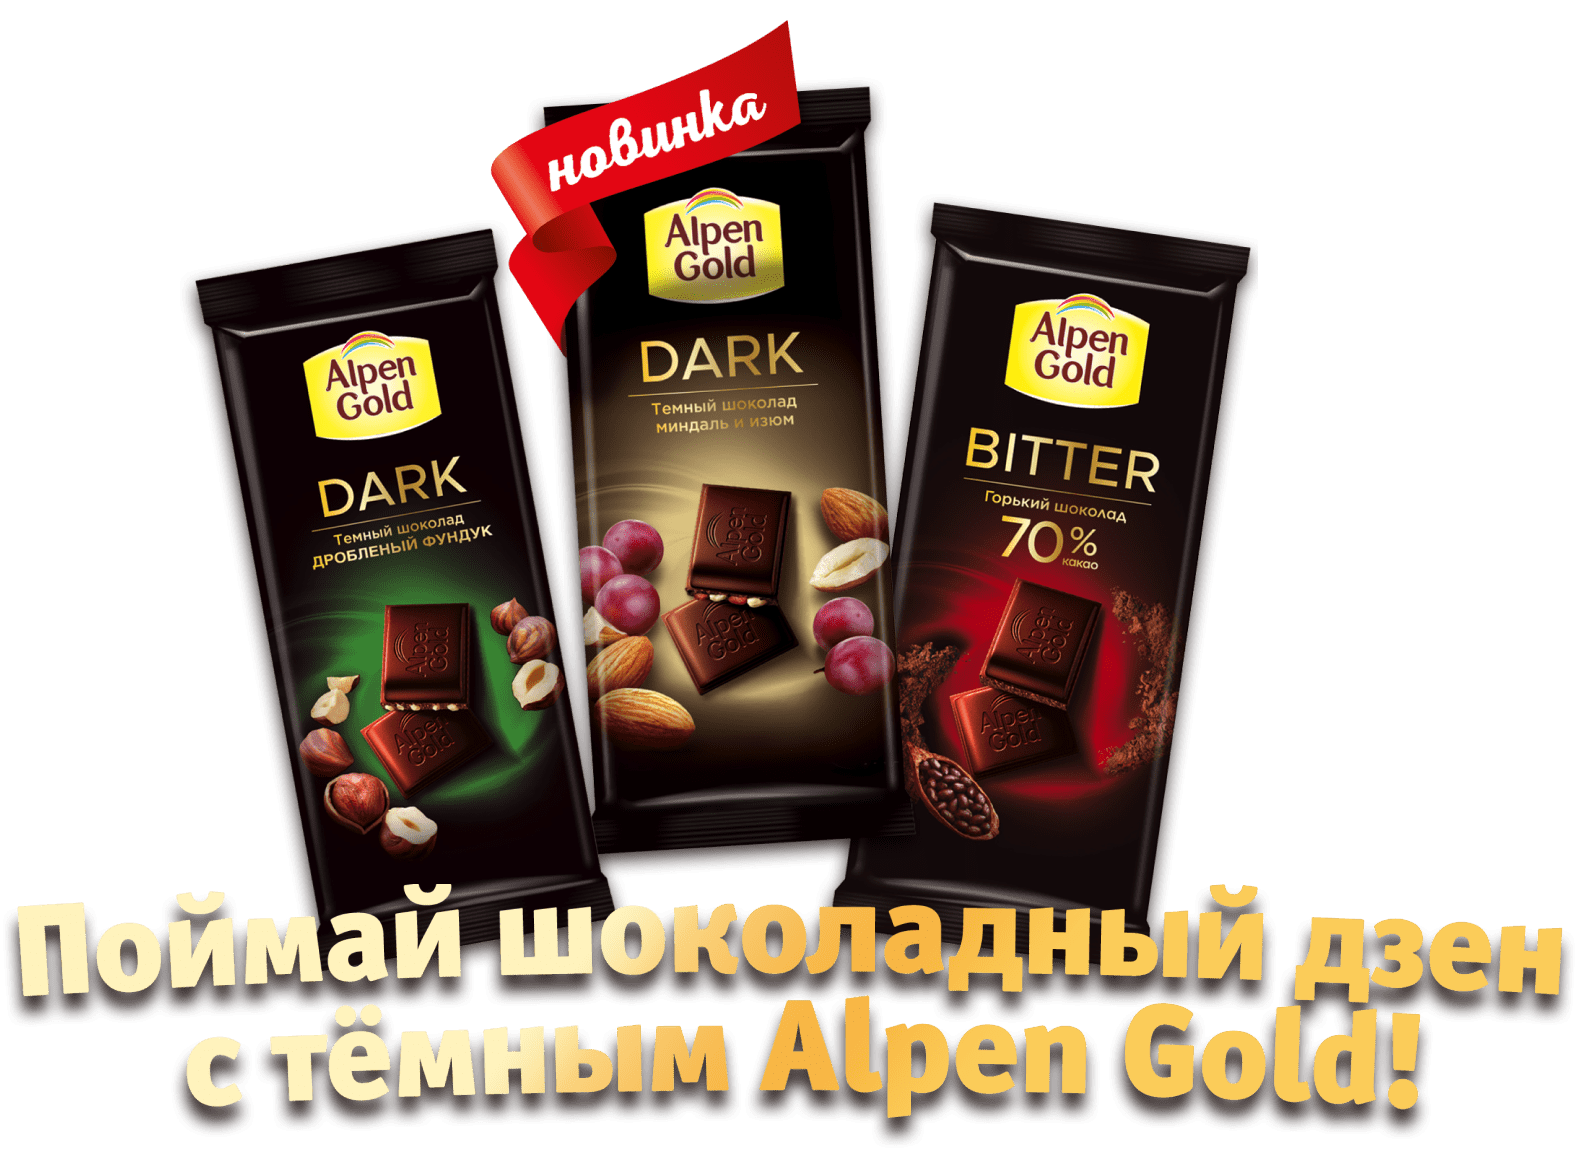
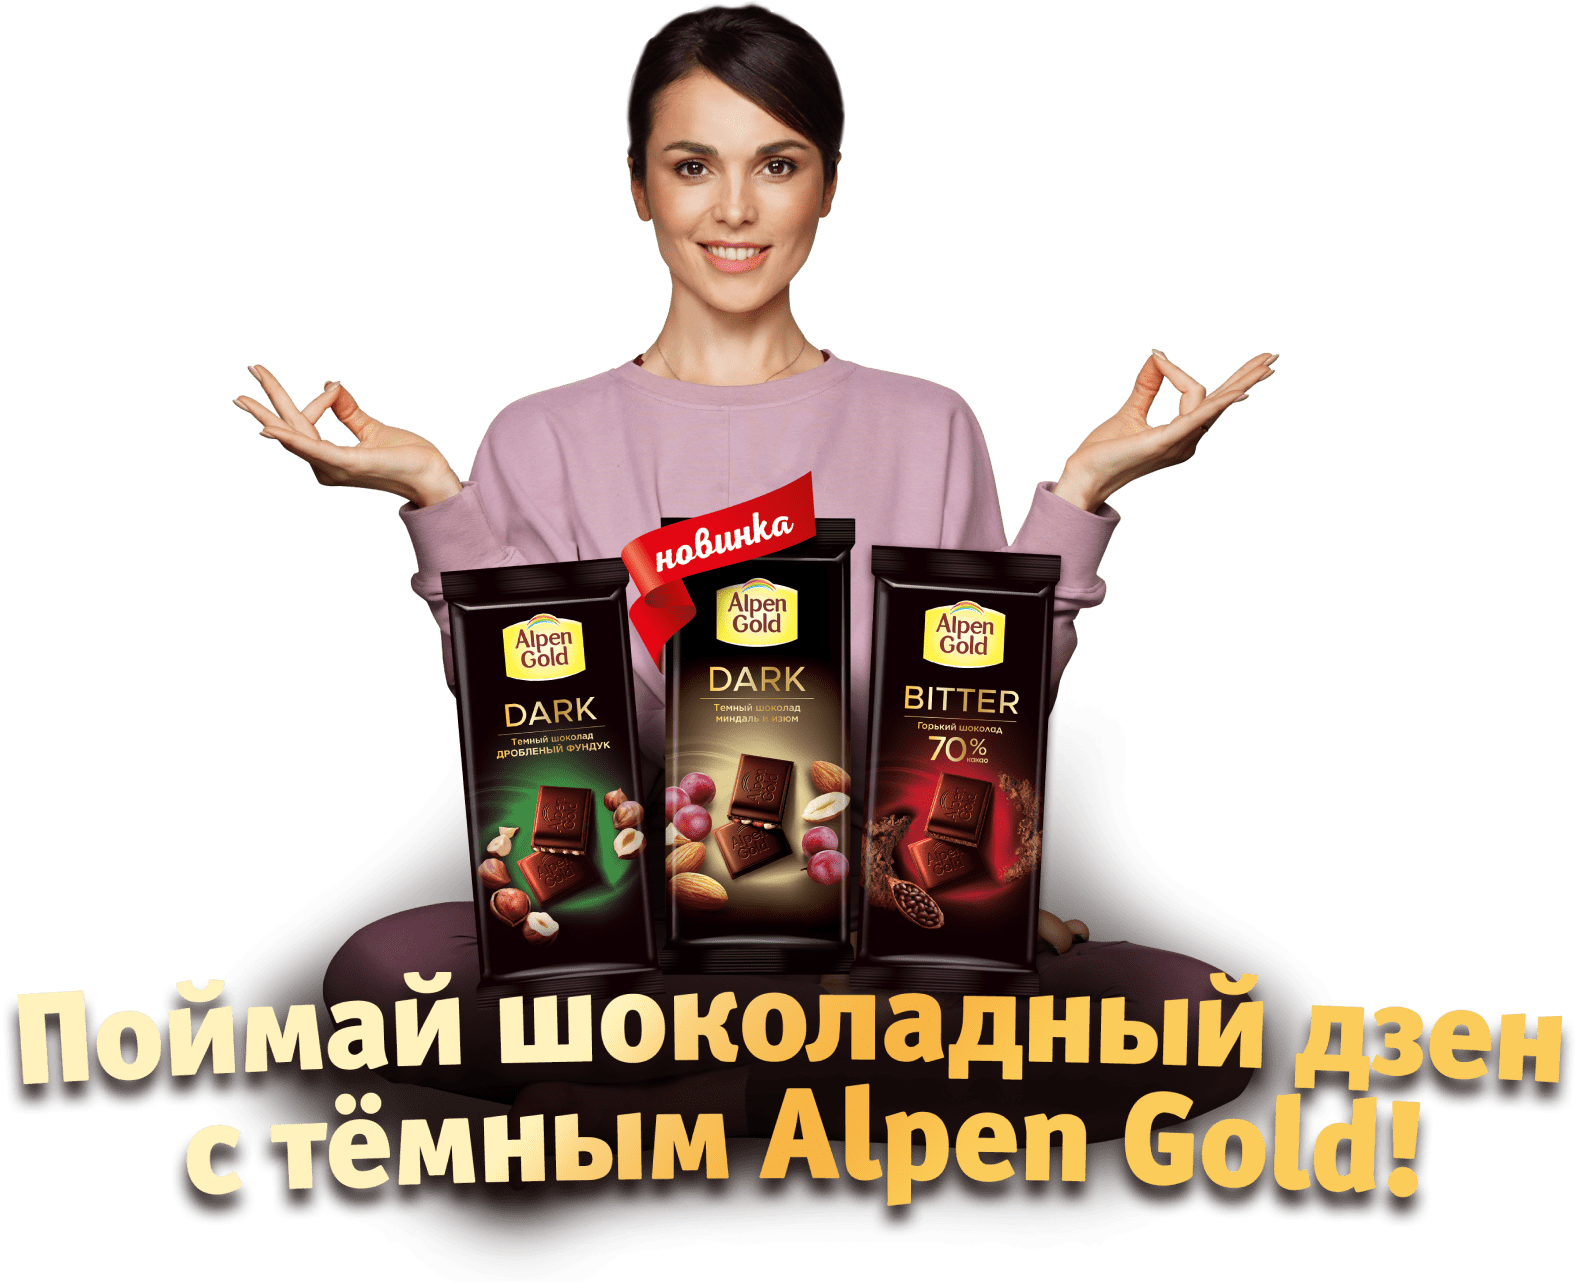
sati

diff --git a/dzen-prizes.html b/dzen-prizes.html
@@ -103,7 +103,7 @@
 								<img src="img/dzen/prize2.png" alt="">
 							</div>
 							<div class="dzen-prize-text">
-								<span>Участие в шоколадной медитации <br>с селебрити</span> в «Пятёрочке».
+								<span>Сеанс шоколадной медитации <br>с Сати Казановой</span> в «Пятёрочке».
 							</div>
 						</div>
 					</div>

diff --git a/dzen-index.html b/dzen-index.html
@@ -90,8 +90,7 @@
 					<div class="dzen-main-wrapper">
 						<div class="dzen-kv-wrapper">
 							<div class="dzen-kv">
-								<img src="img/dzen/kv.png" class="desktop-visible" alt="">
-								<img src="img/dzen/kv-mob.png" class="mobile-visible" alt="">
+								<img src="img/dzen/kv.png" alt="">
 							</div>
 							<div class="picto-5ka">
 								<div class="picto-5ka-title">главный приз:</div>

diff --git a/css/styles.css b/css/styles.css
@@ -8580,7 +8580,8 @@ input.error + .vote-checkmark {
 
     .dzen-kv-wrapper::before {
         top: -25px;
-        left: 0;
+        left: -25px;
+        right: -25px;
         width: 325px;
         height: 389px;
     }
